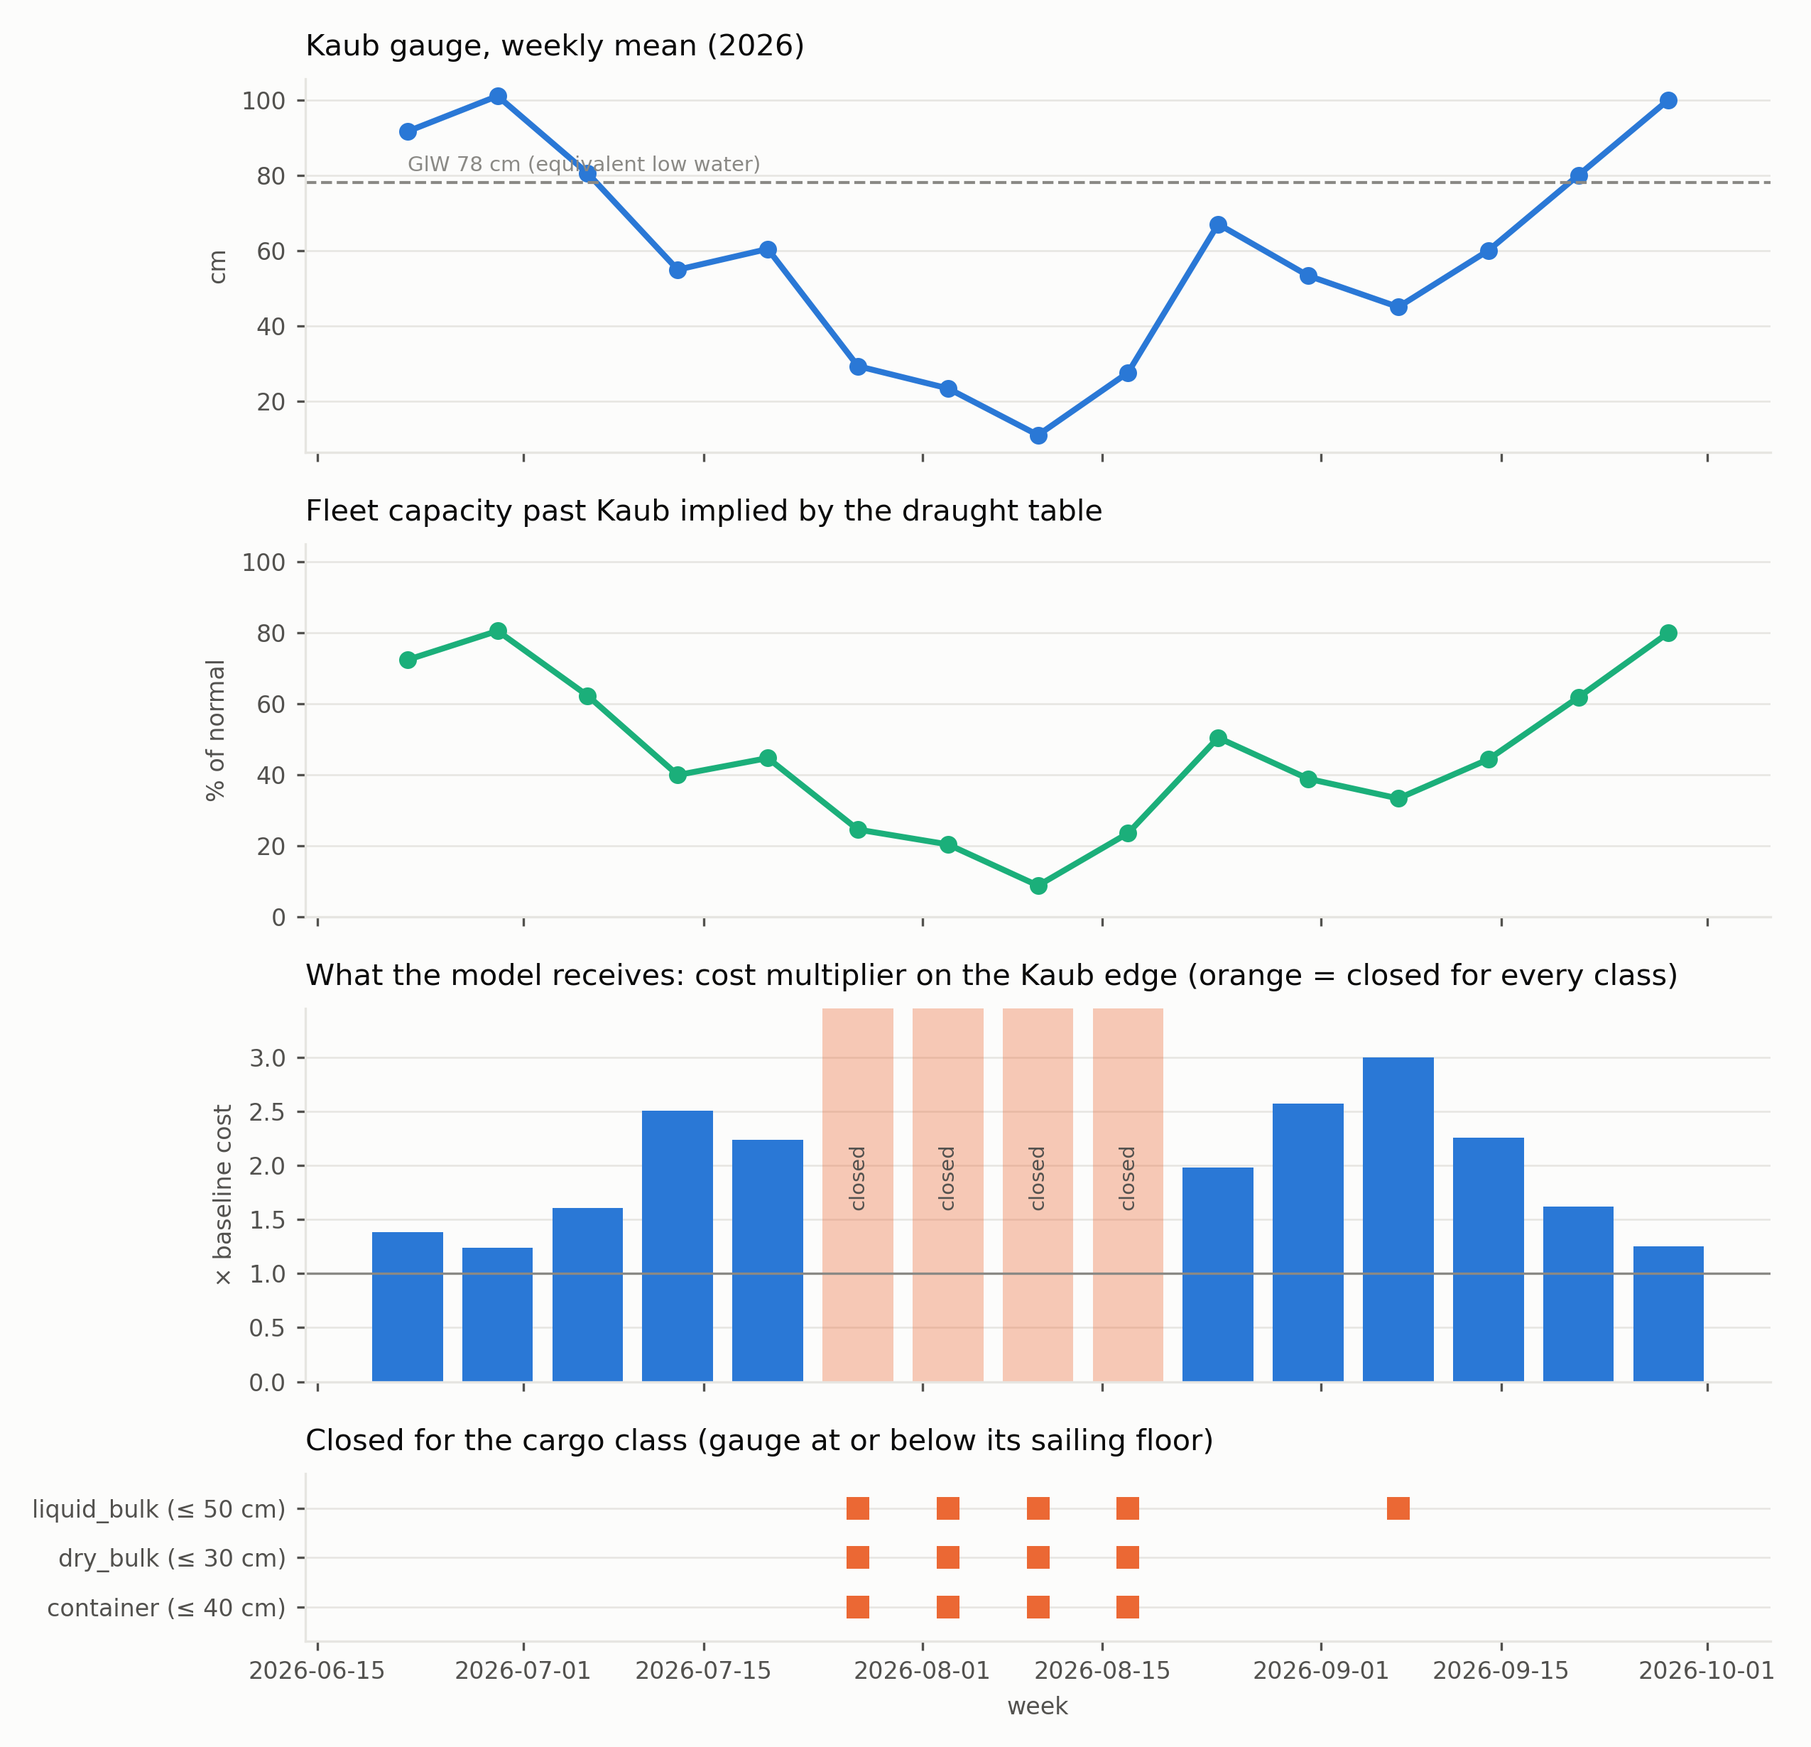
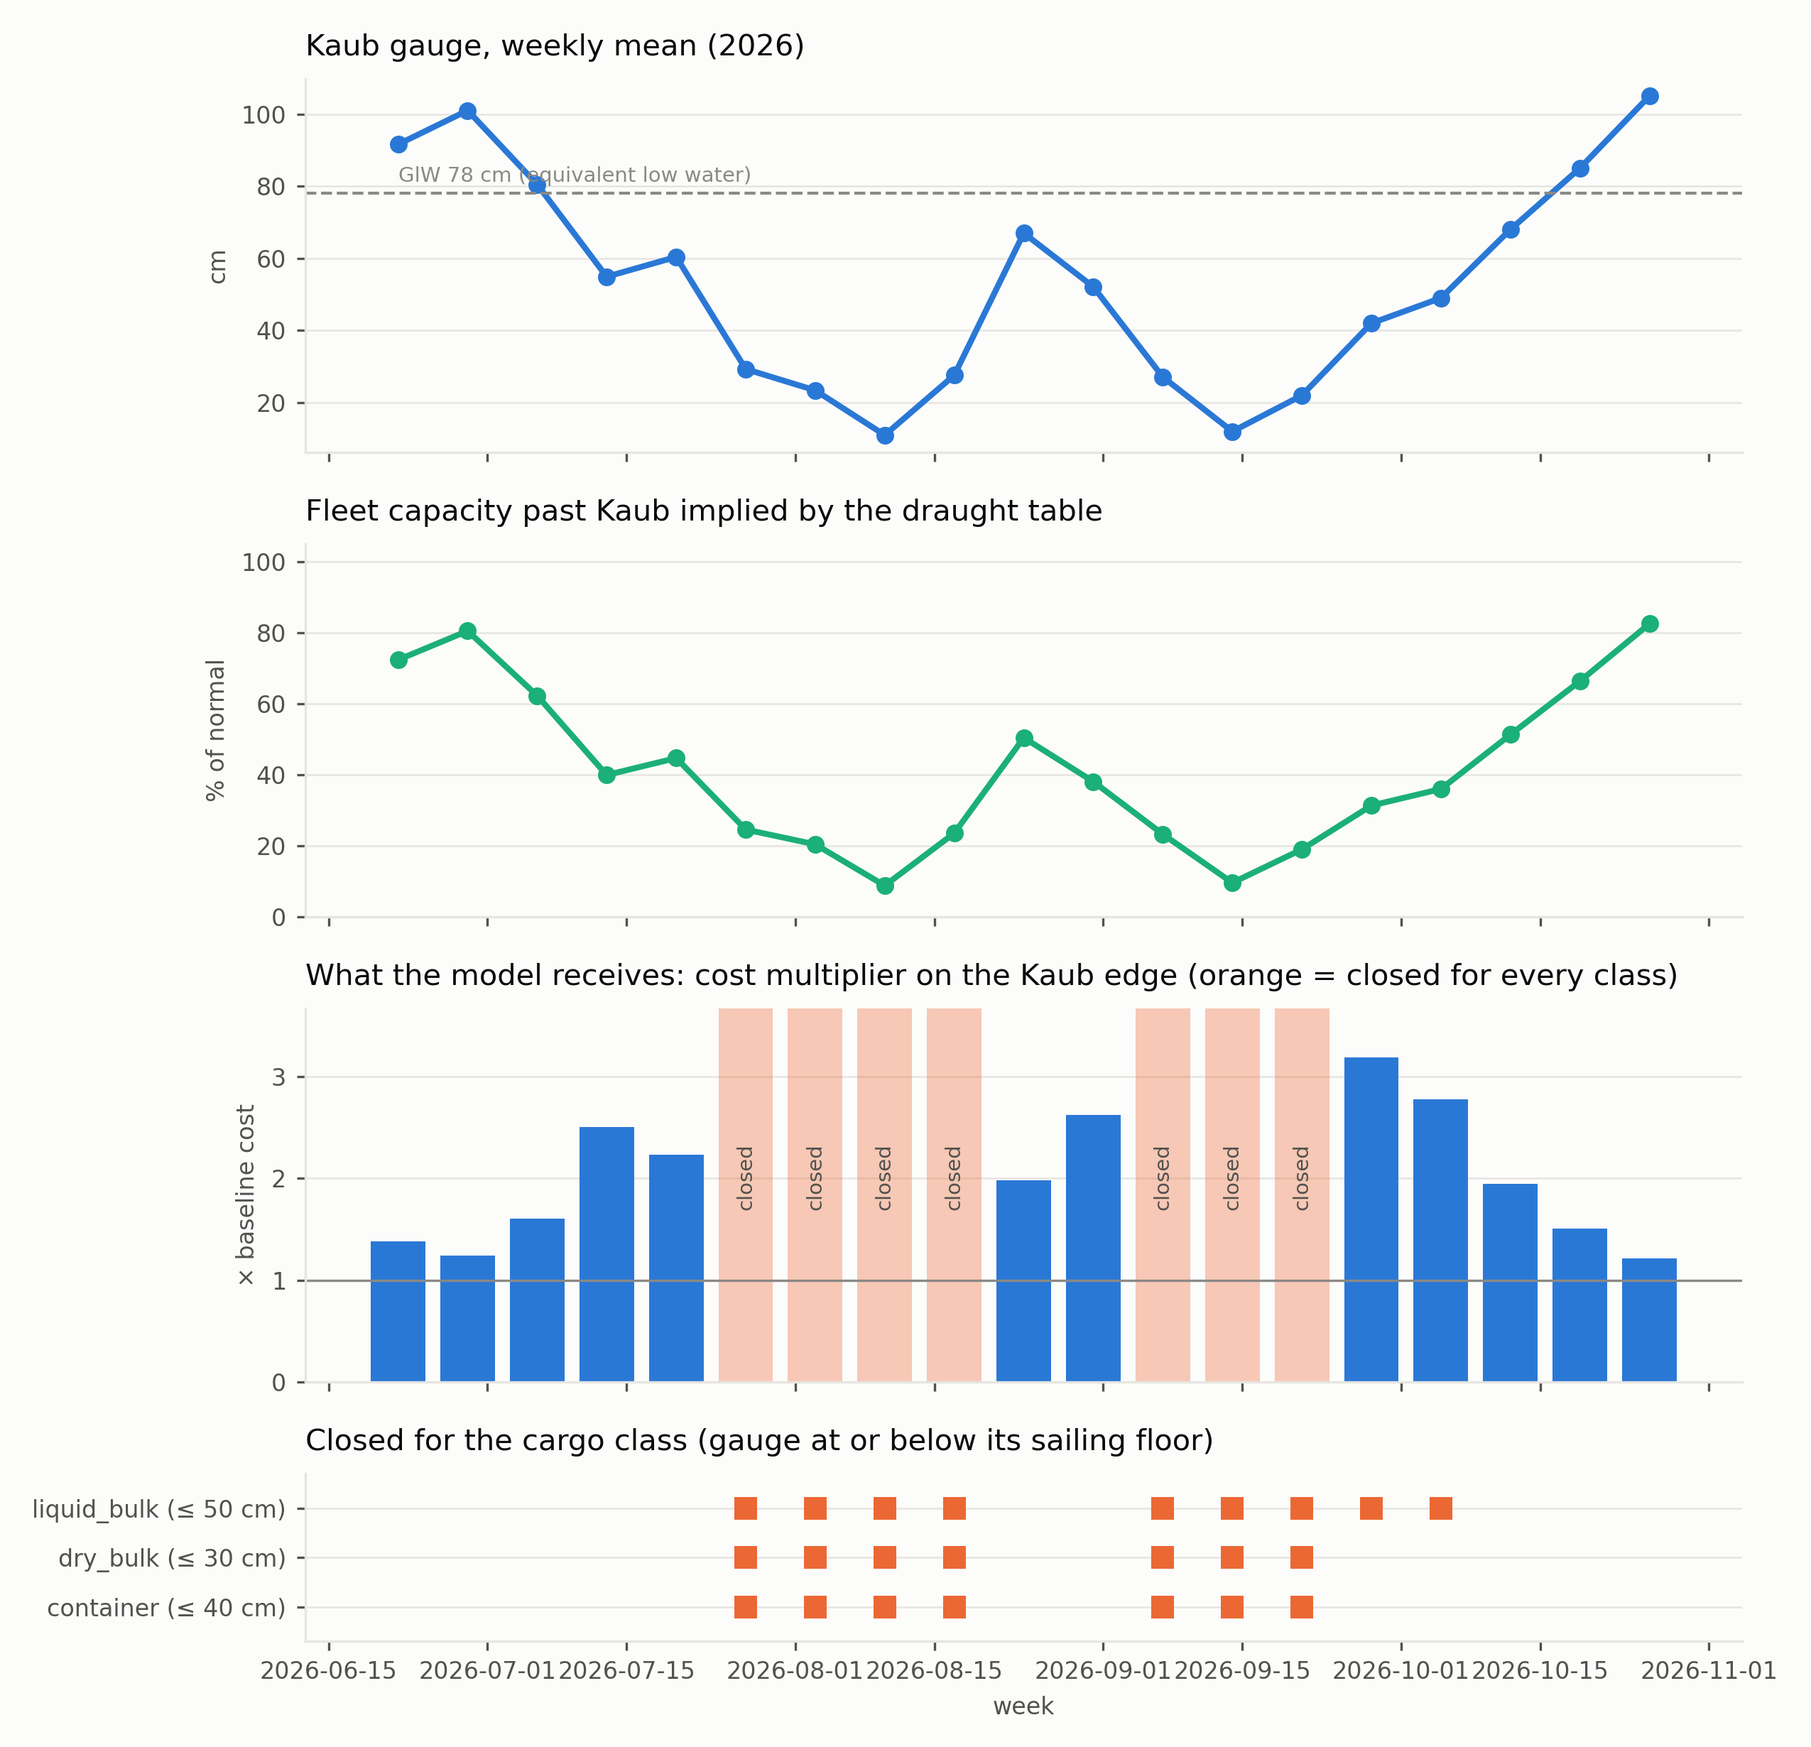
Rhine study: pooled baseline confirmed, forecast-based 2026 rerun queued (queue v16), F4 from the 19-week profile

diff --git a/studies/rhine2026/README.md b/studies/rhine2026/README.md
@@ -215,7 +215,7 @@ line closure, Dutch port strikes.
 | 11 | Sailing floors by vessel class | minimum operational draught CEMT II/III 1.20 m, IV 1.30, V 1.40, VI 1.50, pusher barge 1.70; under-keel clearance 10–20 cm (dry bulk, containers), 20–30 cm (tankers, pushers); depth at Kaub = gauge + 1.12 m → Class V+ stop near 1.5 m depth (42 cm: 5 of 40 Contargo ships), only Class II/III at 25 cm; coal barges to Staudinger stop at Kaub < 40 cm (2022) | van Dorsser et al. 2020; Contargo; Reuters |
 
 Scenario tables built from this evidence (in `scenarios/`): `2026.csv` (weekly
-Kaub profile 22 Jun → 28 Sep: PEGELONLINE daily means to 4 Sep, then forecast and
+Kaub profile 22 Jun → 26 Oct: PEGELONLINE daily means to 10 Sep, then the BfG 6-week forecast and
 assumptions, flagged), `2018.csv` (BfG DGJ daily means, 16 Jul → 10 Dec 2018; the
 daily series `kaub_daily_2018.csv` / `kaub_daily_2026.csv` carry their source, and
 `kaub_daily_crosscheck.csv` compares the yearbook with the raw 15-min data: MAE 0.3 cm),
@@ -332,7 +332,8 @@ Lower Rhine edges; daily-data profiles `scenarios/2026.csv`, `scenarios/2018.csv
 pooling of the 18 commodity-like products across regions (`input_pooling.enabled`,
 `additional_data/product_substitutability.csv`, `adaptive_supplier_weight`). Runs
 `C:\dsc_runs\rhine2026\2026_seed42_pool` and `2018_seed42_pool` (20 recovery weeks, light exports) — the
-candidate final baseline, to be confirmed by the user; their `--no-pooling` twins are `2026_seed42_rates` /
+final baseline (confirmed by the user 10 Sep; the 2026 run is superseded by the forecast-based rerun below); their
+`--no-pooling` twins are `2026_seed42_rates` /
 `2018_seed42_rates` (full exports: the price section comes from those), and the v12-logistics runs `…_voyage` /
 `…_floors` remain as the conservative rung of the ladder (the figures F4–F6 in `figures/` still come from the
 floors runs; regenerate from the pooled runs at paper time). Results (10 Sep): DEU 3.55 bn USD (0.37 % of a
@@ -343,10 +344,12 @@ runs); see the table below for the ladder that led there.
 **September 2026 trough (found 9 Sep 23:30):** after the profile's observed window (to 4 Sep) the gauge kept
 falling — PEGELONLINE daily means 38.1 cm on 5 Sep, 32.6 on 6 Sep, 28.9 on 8 Sep, 25.9 on 9 Sep — so the week
 of 7 Sep (time step 12) is a full closure under the floors, not the 45 cm tank-only assumption, and the week of
-14 Sep probably too. Every 2026 run above is out of date from step 12 on. By the user's condition the
-September weeks are refreshed at the event end and the 2026 baseline rerun once: `fetch_kaub.py --dry-run`
-shows the change (PEGELONLINE REST API, daily means in legal time, weekly rows, closure schedule before and
-after); `evidence/kaub_september_2026_outlook.md` collects the BfG/ELWIS forecasts and the September reporting.
+14 Sep probably too. Every 2026 run above is out of date from step 12 on. The user chose (10 Sep) a
+forecast-based rerun now: `fetch_kaub.py` (PEGELONLINE REST API, daily means in legal time, weekly rows, BfG
+6-week medians, extension) rebuilt `scenarios/2026.csv` as 19 weeks — observations to 10 Sep, ENS medians to
+18 Oct, 85/105 cm assumptions for 19/26 Oct; the 15-week version is in git history — and queue v16 runs it as
+`2026_seed42_pool_fc0910` (refresh again when observations replace the forecast weeks);
+`evidence/kaub_september_2026_outlook.md` collects the BfG/ELWIS forecasts and the September reporting.
 Outlook (10 Sep): the BfG 6-week forecast of 7 Sep gives weekly medians (5–95 %) of 16 (10–23) cm for 7–13 Sep,
 12 (−3–30) for 14–20 Sep, 22 (−15–77) for 21–27 Sep, 42 for 28 Sep–4 Oct, 49 for 5–11 Oct and 68 for 12–18 Oct
 (`scenarios/bfg_6week_kaub_20260907.csv`); the 14-day forecast of 9 Sep keeps Kaub below GlW with 100 %
@@ -372,6 +375,7 @@ hine20266_seed42_base`, then `2018_seed42_base` | **done 05 Sep 03:30**: DEU v
 | **sensitivity grid of the adopted baseline** (queue v12, 06 Sep 08:14, laptop, light exports: `--light-export` skips the 7 GB of link/inventory files) | closure floors: tanker floor 40 cm (`…_floors_liq40`), all floors +10 cm (`…_floors_p10`: 50/60/40) and −10 cm (`…_floors_m10`: 30/40/20), for 2018 and 2026; floors plus the sector-specific give-up thresholds of `additional_data/giveup_thresholds_by_sector.yaml` as the upper-bound reading (`…_floors_thr`), for 2018 and 2026 — 8 runs, ≈ 30 h sequential | **done 07 Sep 22:15** (table `additional_data/sensitivity_grid_20260907.csv`, 13 runs). German value-added loss, % of a quarter — 2018: floors −10 cm 0.089, tanker floor 40 cm 0.091, **central 0.213**, +10 cm 0.416 (peak 0.31 / 0.32 / 0.58 / 0.74 % of a week); 2026: −10 cm 0.108, tanker 40 cm 0.111 (= single floor), **central 0.125**, +10 cm 0.314 (the +10 case's second wave rests on the assumed September gauges). The 2018 sensitivity is entirely the tanker floor; the 2026 lower side is robust (four-week full closure). Floors + sector thresholds: **identical to the baselines** in both years — the thresholds cannot bind because the cost shock is edge-local (85 km Kaub edge of a 600–840 km voyage, delivered prices ≤ +6 %); a voyage-level surcharge (multiplier on the whole Rhine chain a Kaub-limited vessel uses) is the proposed next driver change |
 | **voyage-level surcharge (7 Sep, user decision)** — queue v13, launched 07 Sep ≈ 23:40 | `run_rhine.py --profile 2026` and `2018` with the new default `--surcharge-scope voyage` (full exports, for the price section) → `2026_seed42_voyage`, `2018_seed42_voyage`; then the floors-plus-thresholds variants with light exports → `…_voyage_thr`. Expected: delivered prices +10 to +40 % for barge-borne bulk in surcharge weeks, output losses appearing in surcharge weeks under the thresholds variant, unchanged closure losses | 12–15 min per week (every Rhine link now enters the rerouting logic in surcharge weeks). **2026 done 08 Sep 03:59**; 2018 running (≈ 10:30). The two threshold variants were **cancelled** after week 4 of the 2026 run showed the delivered-price rise capped near +10 % (liquid bulk +9.8 %, dry bulk +8.6 % at ×2.5; ≈ +16 % at the ×3.9 weeks by proportion), below every sector threshold: the bound is the freight calibration (0.010 USD/tkm, ≈ 6 USD/t for a 600 km voyage, against tank-barge rates of EUR 20–45/t), so the price channel cannot reach the +25/+50 % logistics-cost targets without cargo-specific waterway rates — a calibration decision that interacts with the mode split (rate evidence collected 8 Sep: `evidence/waterway_rates_by_vessel_type.md`). **Cargo-specific rates adopted 8 Sep (calibration v13, harness `reroute_v13e`)**: baseline runs re-queued as `2026_seed42_rates` / `2018_seed42_rates` (queue v14, launched ≈ 11:40; the first run rebuilds the routes). **2026 done 15:43: DEU 3.56 bn USD = 0.37 % of a quarter (×2.9 the v12-logistics result), peak 0.98 % of a week, EU 4.38 bn; prices max +13 % in the ×2.5 week, +29 % in a closure week; corridor firms below baseline 5.9 %** — the recalibration puts liquids on the river at the Eurostat share, so 1.7 × more fuel and feedstock deliveries cross Kaub and chemicals (C20) and logistics services (H52) join the exposed sectors; above IfW's EUR 1–2 bn, at the top of the ex-ante range; the region-substitution caveat scales with it. **2018 done 20:43: DEU 8.60 bn USD = 0.90 % of a quarter (×4.2), peak 2.2 % of a week in week 23, after the last closure — a second-round cascade (935 / 1,231 / 920 / 1,630 / 763 mUSD in weeks 20–24); EU 10.9 bn; corridor firms stopped 0.9–1.1 %.** Two to three times the ex-post 2018 effect with the wrong timing: with the river carrying the realistic fuel share, the propagation rules (no substitution between regional sources of one product, no rationing of a scarce input, 7–10 day fuel stocks, the tanker-floor cliff) are what overshoot. Decision pending: within-sector substitution across regions (model extension) or pooled C19 inputs as a sensitivity before quoting v13 numbers | **2018 done 08 Sep 09:08**: DEU 2,034 mUSD (edge-local: 2,032), EU 2,750, same weekly series; delivered prices max +15 % in the 15 Oct week, +16–17 % in the ×3.9 weeks of late November, +12 % at ×3.1, fill ≥ 99.7 %; rerouted 0.44–0.65 % of routed value every surcharge week, blocked up to 0.26 %; corridor firms below 99 % of baseline 4.5 % at the peak. The two voyage runs are the baseline runs from here on |
 | **input pooling across regions (9 Sep, user decision) + gross/net/delay accounting** — queue v15 | `run_rhine.py --profile 2026/2018 --recovery-weeks 20 --light-export` with `input_pooling.enabled`, the substitutability table (18 commodity-like products) and `adaptive_supplier_weight` on: the same product from several regions is one input (stocks and coefficients pooled in the Leontief constraint, orders split across all its suppliers by baseline share × fill-rate signal); `--no-pooling` = the v13 runs → `2026_seed42_pool`, `2018_seed42_pool` | first attempt (18:42) stopped at week 13 and kept as `…_pool_slowsignal_partial13`: equilibrium identical to v13, Austria's loss down as designed (64 → 26 mUSD in week 8) but Germany's up (closed weeks 614 / 729 / 627 vs 476 / 623 / 653) — not a bug (single-firm emulation of the code behaves as designed) but the 2 % materiality floor: applied per region-sector, sub-2 % fuel pieces were non-critical and free when blocked; the pooled product share passes the floor and the blocked share has to be replaced by redirected orders (one to two weeks, open refineries' headroom). Relaunched unchanged 20:39. **2026 done 10 Sep 02:53: DEU 3,546 mUSD = 0.371 % of a quarter (v13: 3,560), EU 4,158 (4,380) — the total is unchanged but the timing follows the gauge (peak 0.99 % of a week in week 8, the 11 cm week, instead of the lag week 10; closed weeks 614 / 729 / 627 / 592 vs 476 / 623 / 653 / 718); Austria 95 vs 310 (hauliers draw on Austrian fuel), Netherlands 225 vs 234; net 3,356 (goods backlog left 567, perishable gross 2,789), delay cost 40 mUSD; corridor firms below 99 % of baseline 5.7 % at the peak. 2018 done 07:50: DEU 5,570 = 0.58 % of a quarter (v13: 8,603 = 0.90 %), peak 1.23 % of a week in week 21 (3 Dec, the lag week of the last closure) instead of 2.22 % in week 23; the post-closure cascade falls from 935 / 1,231 / 920 / 1,630 / 763 to 765 / 901 / 587 / 395 / 139 mUSD (weeks 20–24): hotels and food plants no longer stop, cement, agriculture, shipping and power still do (36 stopped firms in week 20 vs 56); EU 6,074 (10,905); Austria 88 (663); net 5,198 (backlog left 1,573, perishable 3,625), delay 91 mUSD; household consumption loss 6.8 bn (12.4).** Pooling removes about two-thirds of the 2018 second wave and leaves the multi-tier chain through cement, feed and fuel. Table `additional_data/compare_runs_pooling_20260910.csv`; analyses and figures in the run folders (`--no-links`: no price section, no inventory data) |
+| **forecast-based 2026 rerun (10 Sep, user decisions: pooled baseline confirmed, rerun now)** — queue v16, launched 10 Sep 09:28 | `run_rhine.py --profile 2026 --no-open --seed 42 --recovery-weeks 20 --light-export` on the refreshed profile (`fetch_kaub.py`: observations to 10 Sep, the BfG 6-week ENS medians of 7 Sep for 14 Sep–18 Oct, 85/105 cm assumptions for 19/26 Oct; 19 weeks; every class closed at steps 6–9 and 12–14, tank barges at 15–16, surcharge only at 17–19) → `2026_seed42_pool_fc0910`; watcher v8 | running, 40 steps ≈ 7 h → ≈ 17:00. Expected: the German loss roughly doubles the 3.55 bn of the observed-plus-assumptions profile (three more full-closure weeks and a tank-barge tail). Refresh again when observations replace the forecast weeks; the run name carries the forecast vintage |
 | give-up rule sensitivity | `--legacy-give-up` (freight-bill rule, threshold 2) → `…_legacy` | later |
 | analysis | `analyze_scenario.py <run>` — Kaub tonnage vs fleet capacity, corridor substitution, corridor firms below baseline vs DIHK, price surcharges, value-added loss vs the macro range | after each run |
 
@@ -405,8 +409,8 @@ hine2026`), because the
 
 1. Weekly Kaub levels (`scenarios/2026.csv`: PEGELONLINE daily means 22 Jun – 4 Sep 2026
    from the gauge's long-term raw download, `kaub_daily_2026.csv`; the BfG forecast for
-   6 Sep; assumptions from 7 Sep, flagged — overtaken by the September trough (Kaub 26 cm on
-   9 Sep): refresh at the event end with `fetch_kaub.py`; the press-based first version is kept as
+   6 Sep — superseded 10 Sep by the forecast-based profile: observations to 10 Sep, BfG 6-week ENS
+   medians to 18 Oct, assumptions to 26 Oct (19 weeks, `fetch_kaub.py`); the press-based first version is kept as
    `2026_press.csv`. `scenarios/2018.csv`: weekly means of the verified BfG yearbook (DGJ)
    daily means, `kaub_daily_2018.csv`, 16 Jul – 10 Dec 2018; the reconstructed series is
    kept as `2018_reconstructed.csv`) →

diff --git a/studies/rhine2026/paper_outline.md b/studies/rhine2026/paper_outline.md
@@ -48,7 +48,7 @@ data file it comes from, so the pipeline can produce it without re-deciding.
 
 ## 4. The 2026 scenario
 - Inputs: weekly Kaub gauge (PEGELONLINE/BfG) → draught table → capacity factor → cost multiplier
-  or closure (Figure 4: gauge, capacity factor and schedule, 22 Jun – 5 Oct 2026).
+  or closure (Figure 4: gauge, capacity factor and schedule, 22 Jun – 26 Oct 2026, forecast weeks flagged).
 - Runs (baseline definition of 4 Sep, user decisions): survey criticality, import bundles by MRIO
   composition, firm inventories by buying industry (Bundesbank stock days), cargo-specific switching
   costs, one delivered-price give-up threshold (5), no quantity cap: `2026_seed42_base`; the 2018
@@ -67,8 +67,9 @@ data file it comes from, so the pipeline can produce it without re-deciding.
   products across regions (`2026_seed42_pool` 3.55 bn = 0.37 %, peak in the 11 cm week; `2018_seed42_pool`
   5.57 bn = 0.58 %, peak 1.2 % of a week in the first week of December, cascade cut by two-thirds) →
   candidate final baseline (10 Sep, confirmation pending); the ladder v12 floors → v13 rates → pooling is
-  the paper's sensitivity story (Table T2). CAVEAT: the September 2026 trough (Kaub 26 cm on 9 Sep, a
-  full closure week not in the profile) → profile refresh and one rerun at the event end. Sensitivities
+  the paper's sensitivity story (Table T2). The September 2026 trough (Kaub 26 cm on 9 Sep) → forecast-based
+  profile (BfG 6-week medians, 19 weeks to 26 Oct) and the rerun `2026_seed42_pool_fc0910` (10 Sep) as the
+  2026 baseline run; refresh when observations replace the forecast weeks. Sensitivities
   for the cluster: tanker floor 40/50/60 cm, inventories ± 50 %, Lower Rhine factor, v12 vs v13 rates,
   seeds.
 - Two modelling decisions to state up front, both forced by the scale of the scope: the
